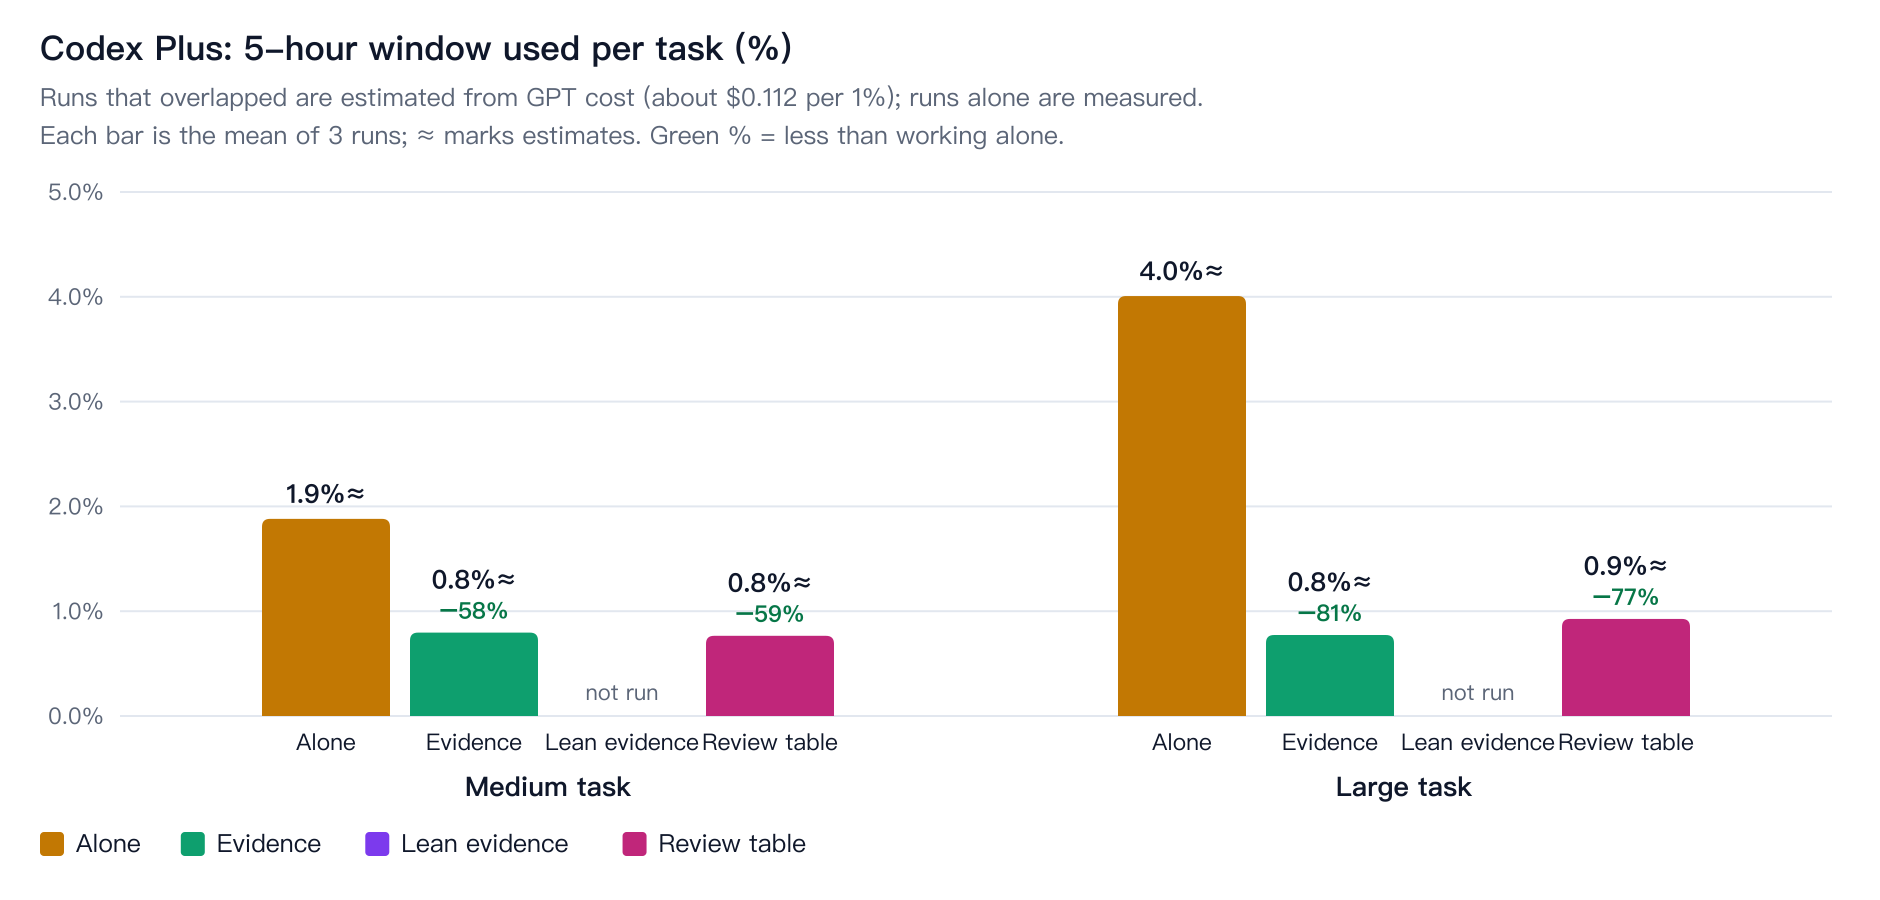
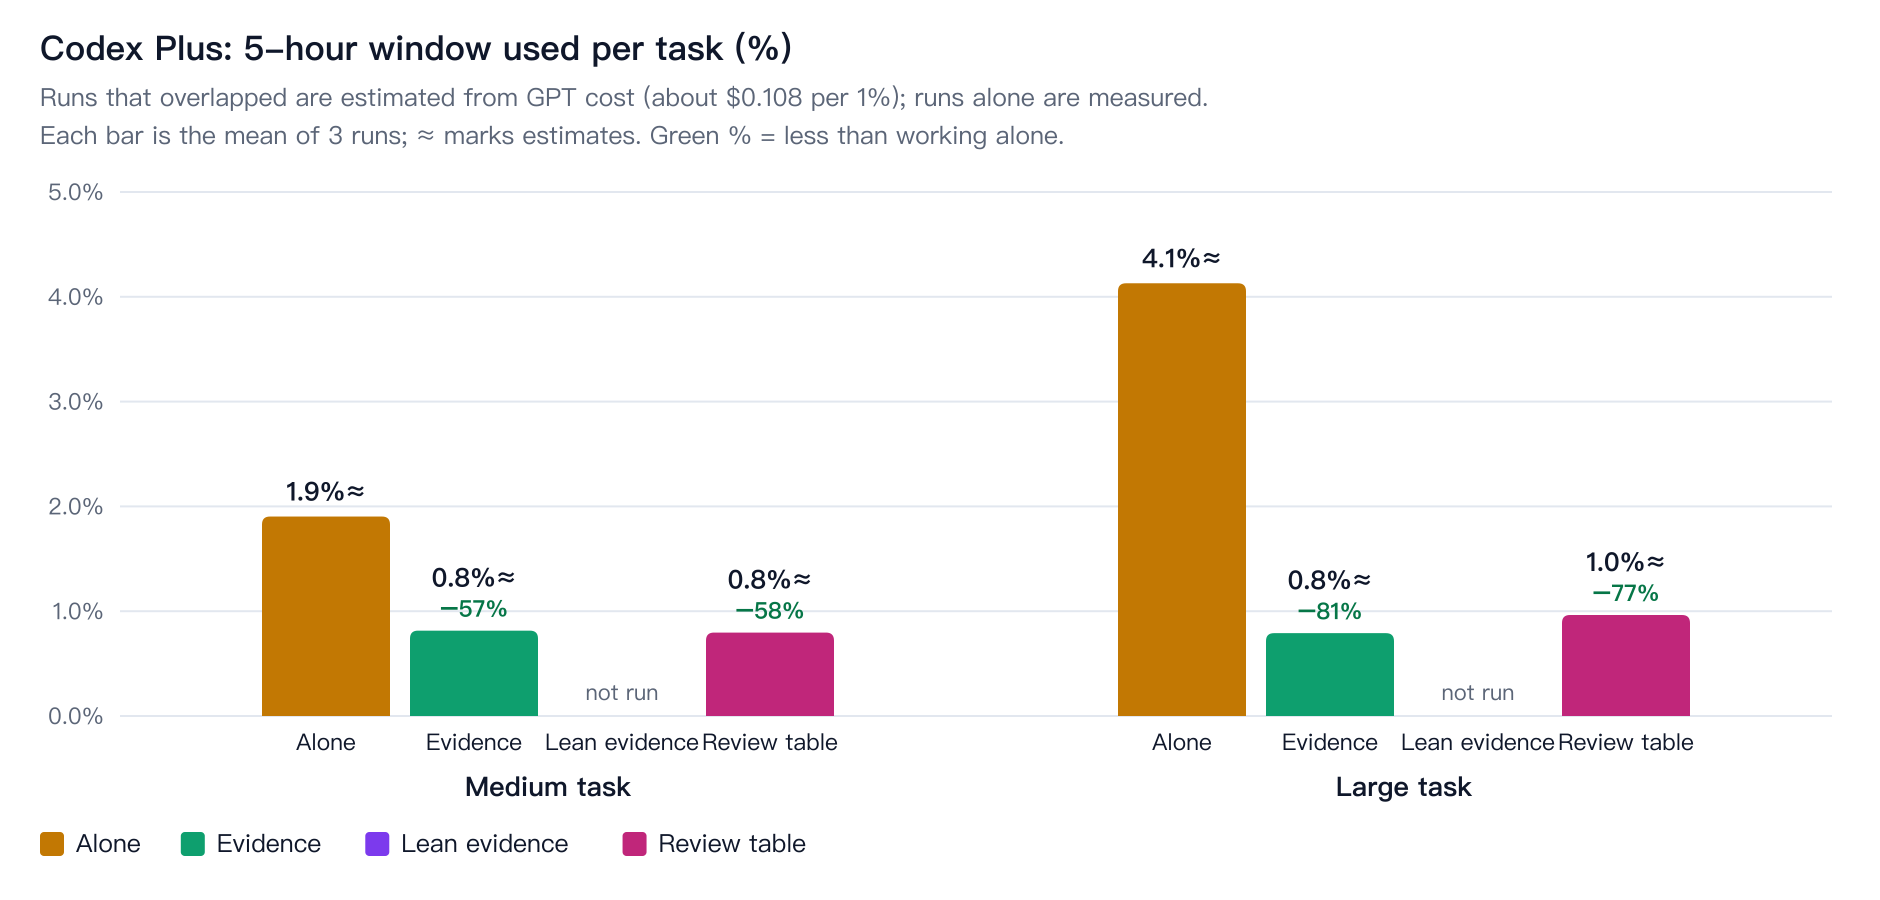
0.6.0

diff --git a/docs/benchmarks/token-usage-2026-10/LOG.md b/docs/benchmarks/token-usage-2026-10/LOG.md
@@ -86,3 +86,10 @@ With the check fixed, the hand-over costs about half of working alone on the lar
 | Handed over (0.6.0-next.0) | 202,236 / 181,632 / 1,318 | $0.45 | $0.19 | 69% → 72% (3%) |
 - Both passed the first time. The earlier estimate (Sol tokens at Astra prices) was $0.93 alone and $0.54 handed over: Astra used slightly fewer tokens than Sol, so the estimate ran about 15% high; the savings were close (−43% measured vs −41%).
 - About $0.11–0.15 of Astra per 1% of the Plus window, close to Sol's $0.10: the window tracks list price. The estimated Astra charts are removed; the combined chart shows these measured runs.
+
+### 2026-10-26 03:24–03:37: Codex with GPT-6 Astra, large task
+- Alone: passed first time; 1,062,294 GPT input tokens (1,031,552 cached), 18,540 output; $2.27 at Astra list price; 5-hour window 73% → 95% (22%).
+- Handed over: stopped at 99% of the window, before the run ended, so it would not hit the limit; its Harness run was cancelled. Not counted. To rerun after the window resets (04:54 local).
+
+### 2026-10-26 04:40: Windows verification of 0.6.0-next.0 passed
+- Install by exact version (`dsh-baton-host@0.6.0-next.0`; `@next` resolves to a broken 0.0.0-stage tarball in Harness). Session created in the conversation's folder; evidence block present (13 files created, npm test 64/64, source "dsh-baton, not the Harness model"); Harness's final reply ended with a sub-agent requirement table, and the audit found and fixed a prototype-key validation bug with regression tests. Only odd thing: Harness left its own todo list showing in progress after the run ended (UI state).
